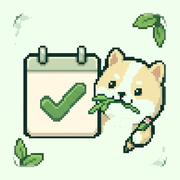
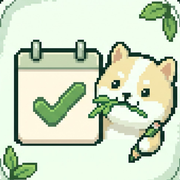
图标画面再放大一圈

diff --git a/index.html b/index.html
@@ -7,8 +7,8 @@
 <meta name="apple-mobile-web-app-capable" content="yes">
 <meta name="apple-mobile-web-app-status-bar-style" content="default">
 <meta name="apple-mobile-web-app-title" content="像素习惯">
-<link rel="apple-touch-icon" href="icon-180.png?v=4">
-<link rel="icon" type="image/png" href="favicon.png?v=4">
+<link rel="apple-touch-icon" href="icon-180.png?v=5">
+<link rel="icon" type="image/png" href="favicon.png?v=5">
 <title>像素习惯</title>
 <style>
   :root{
